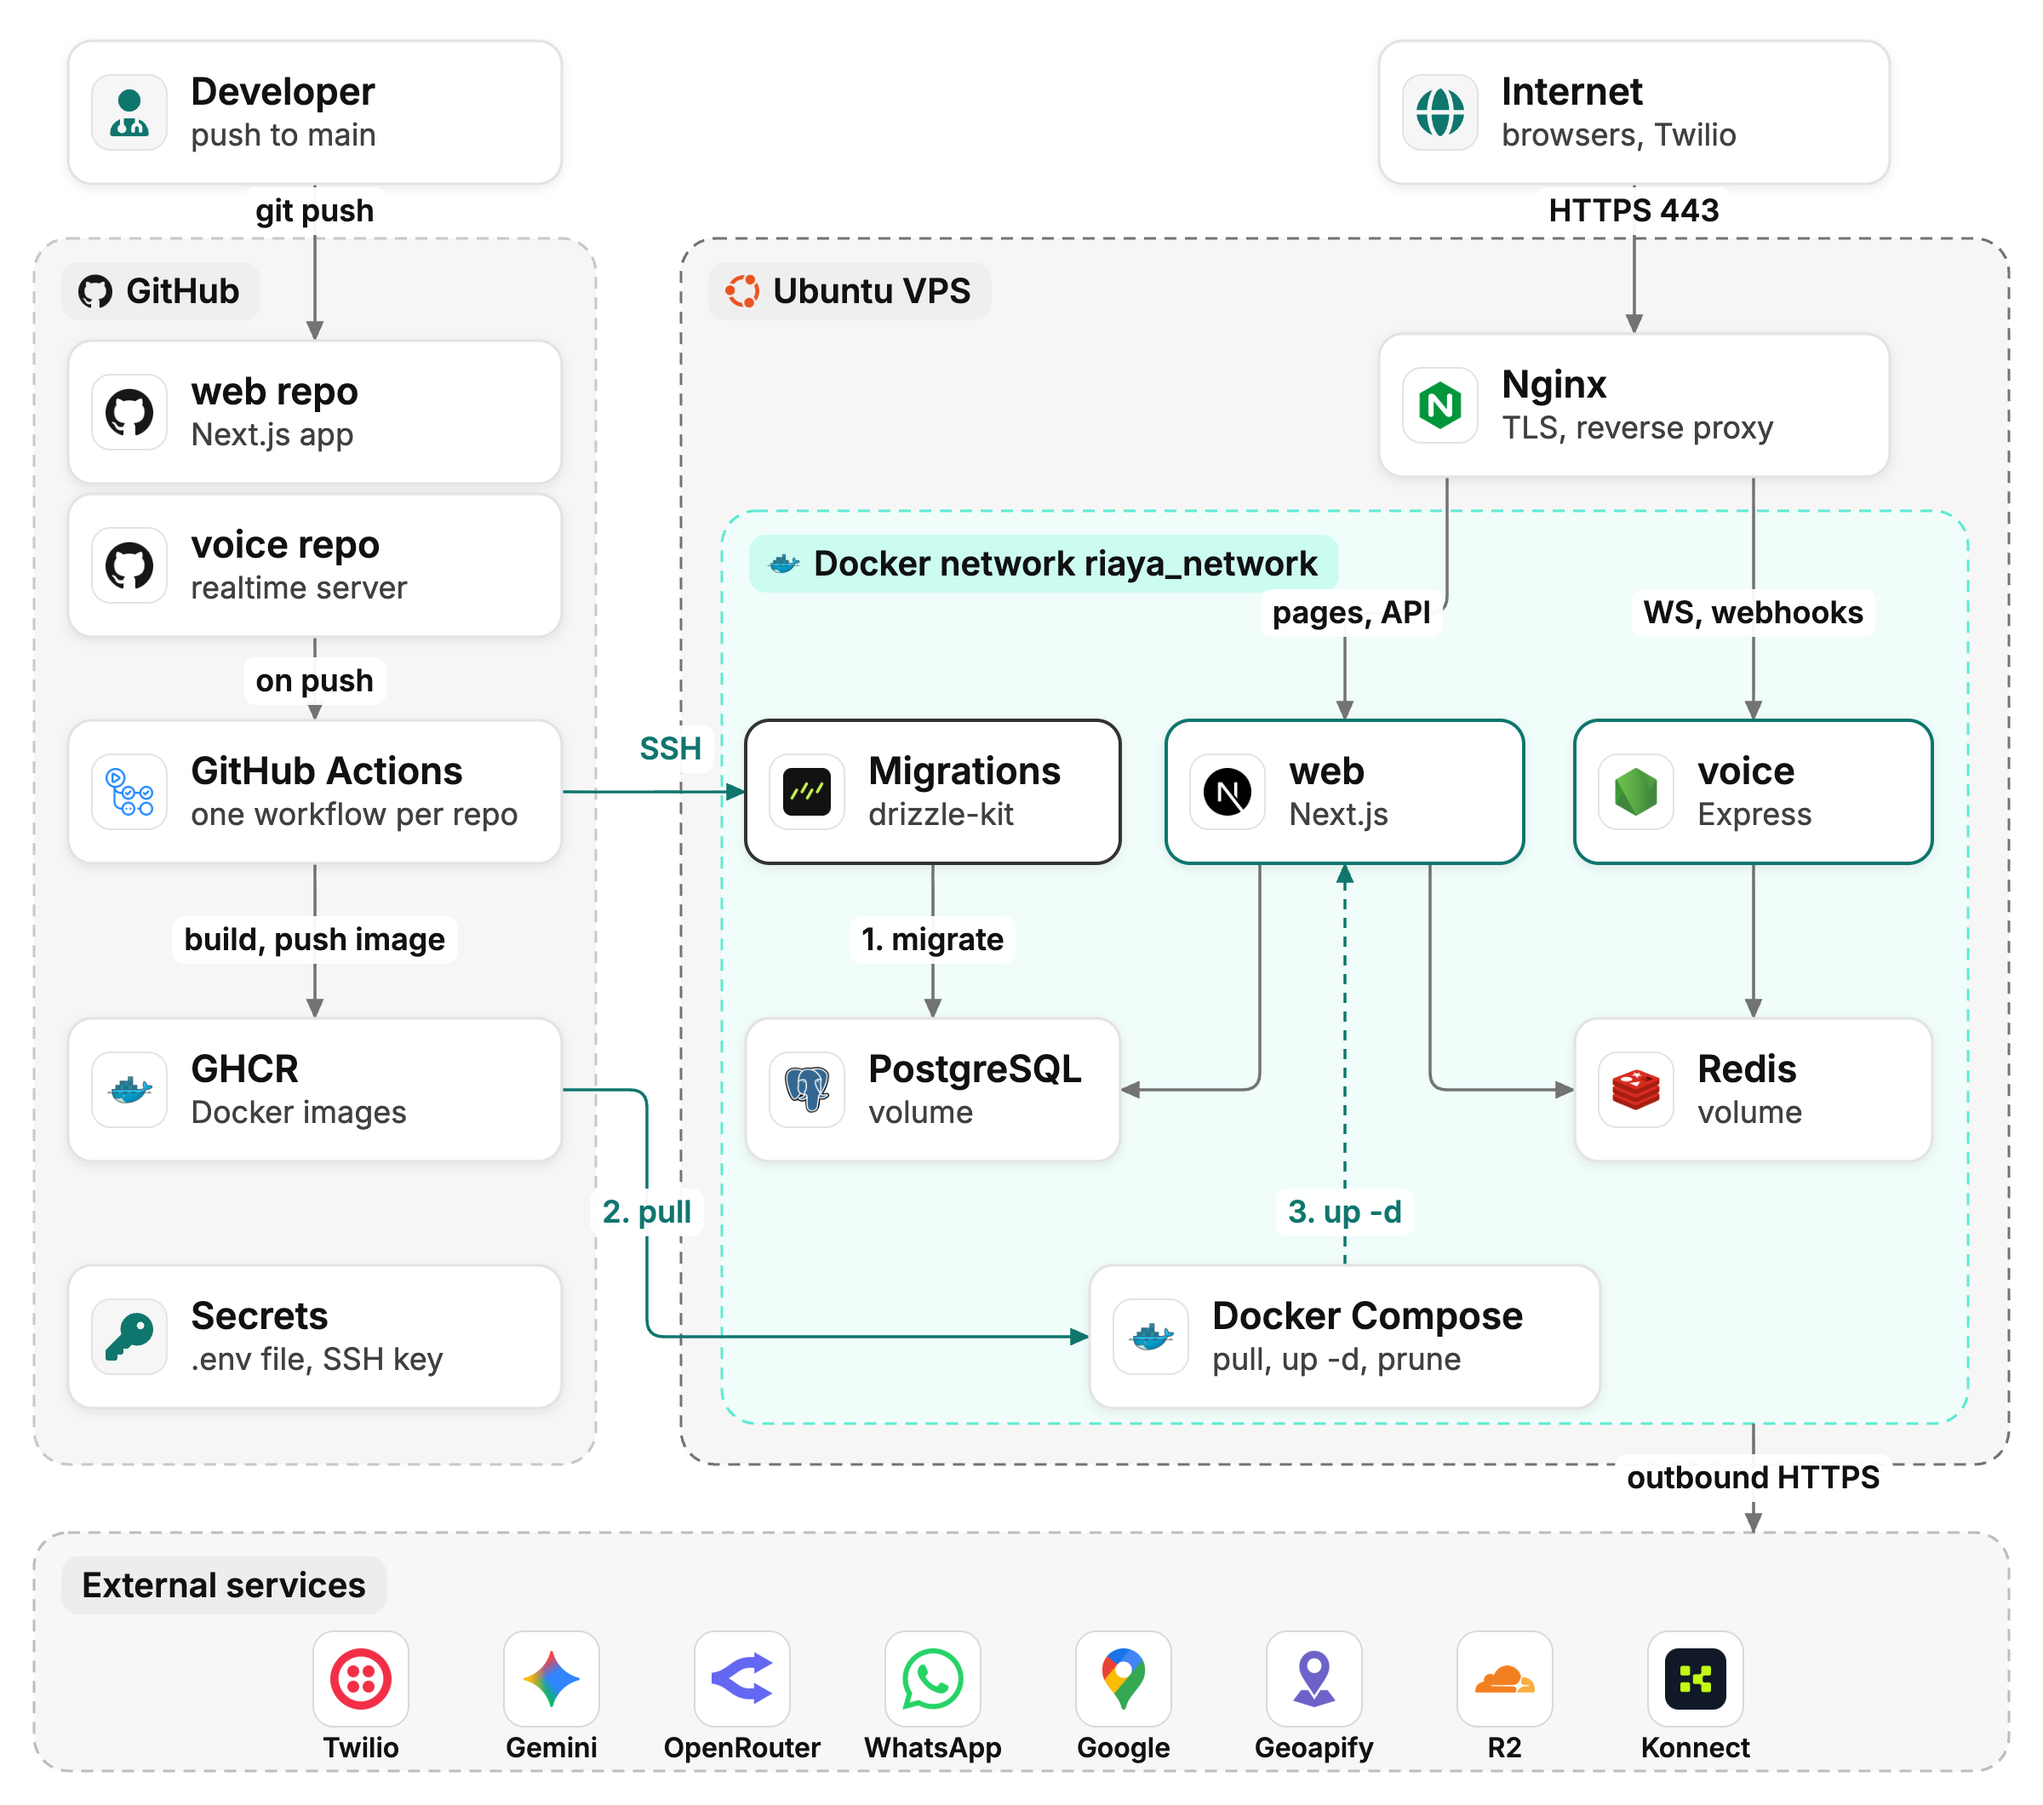
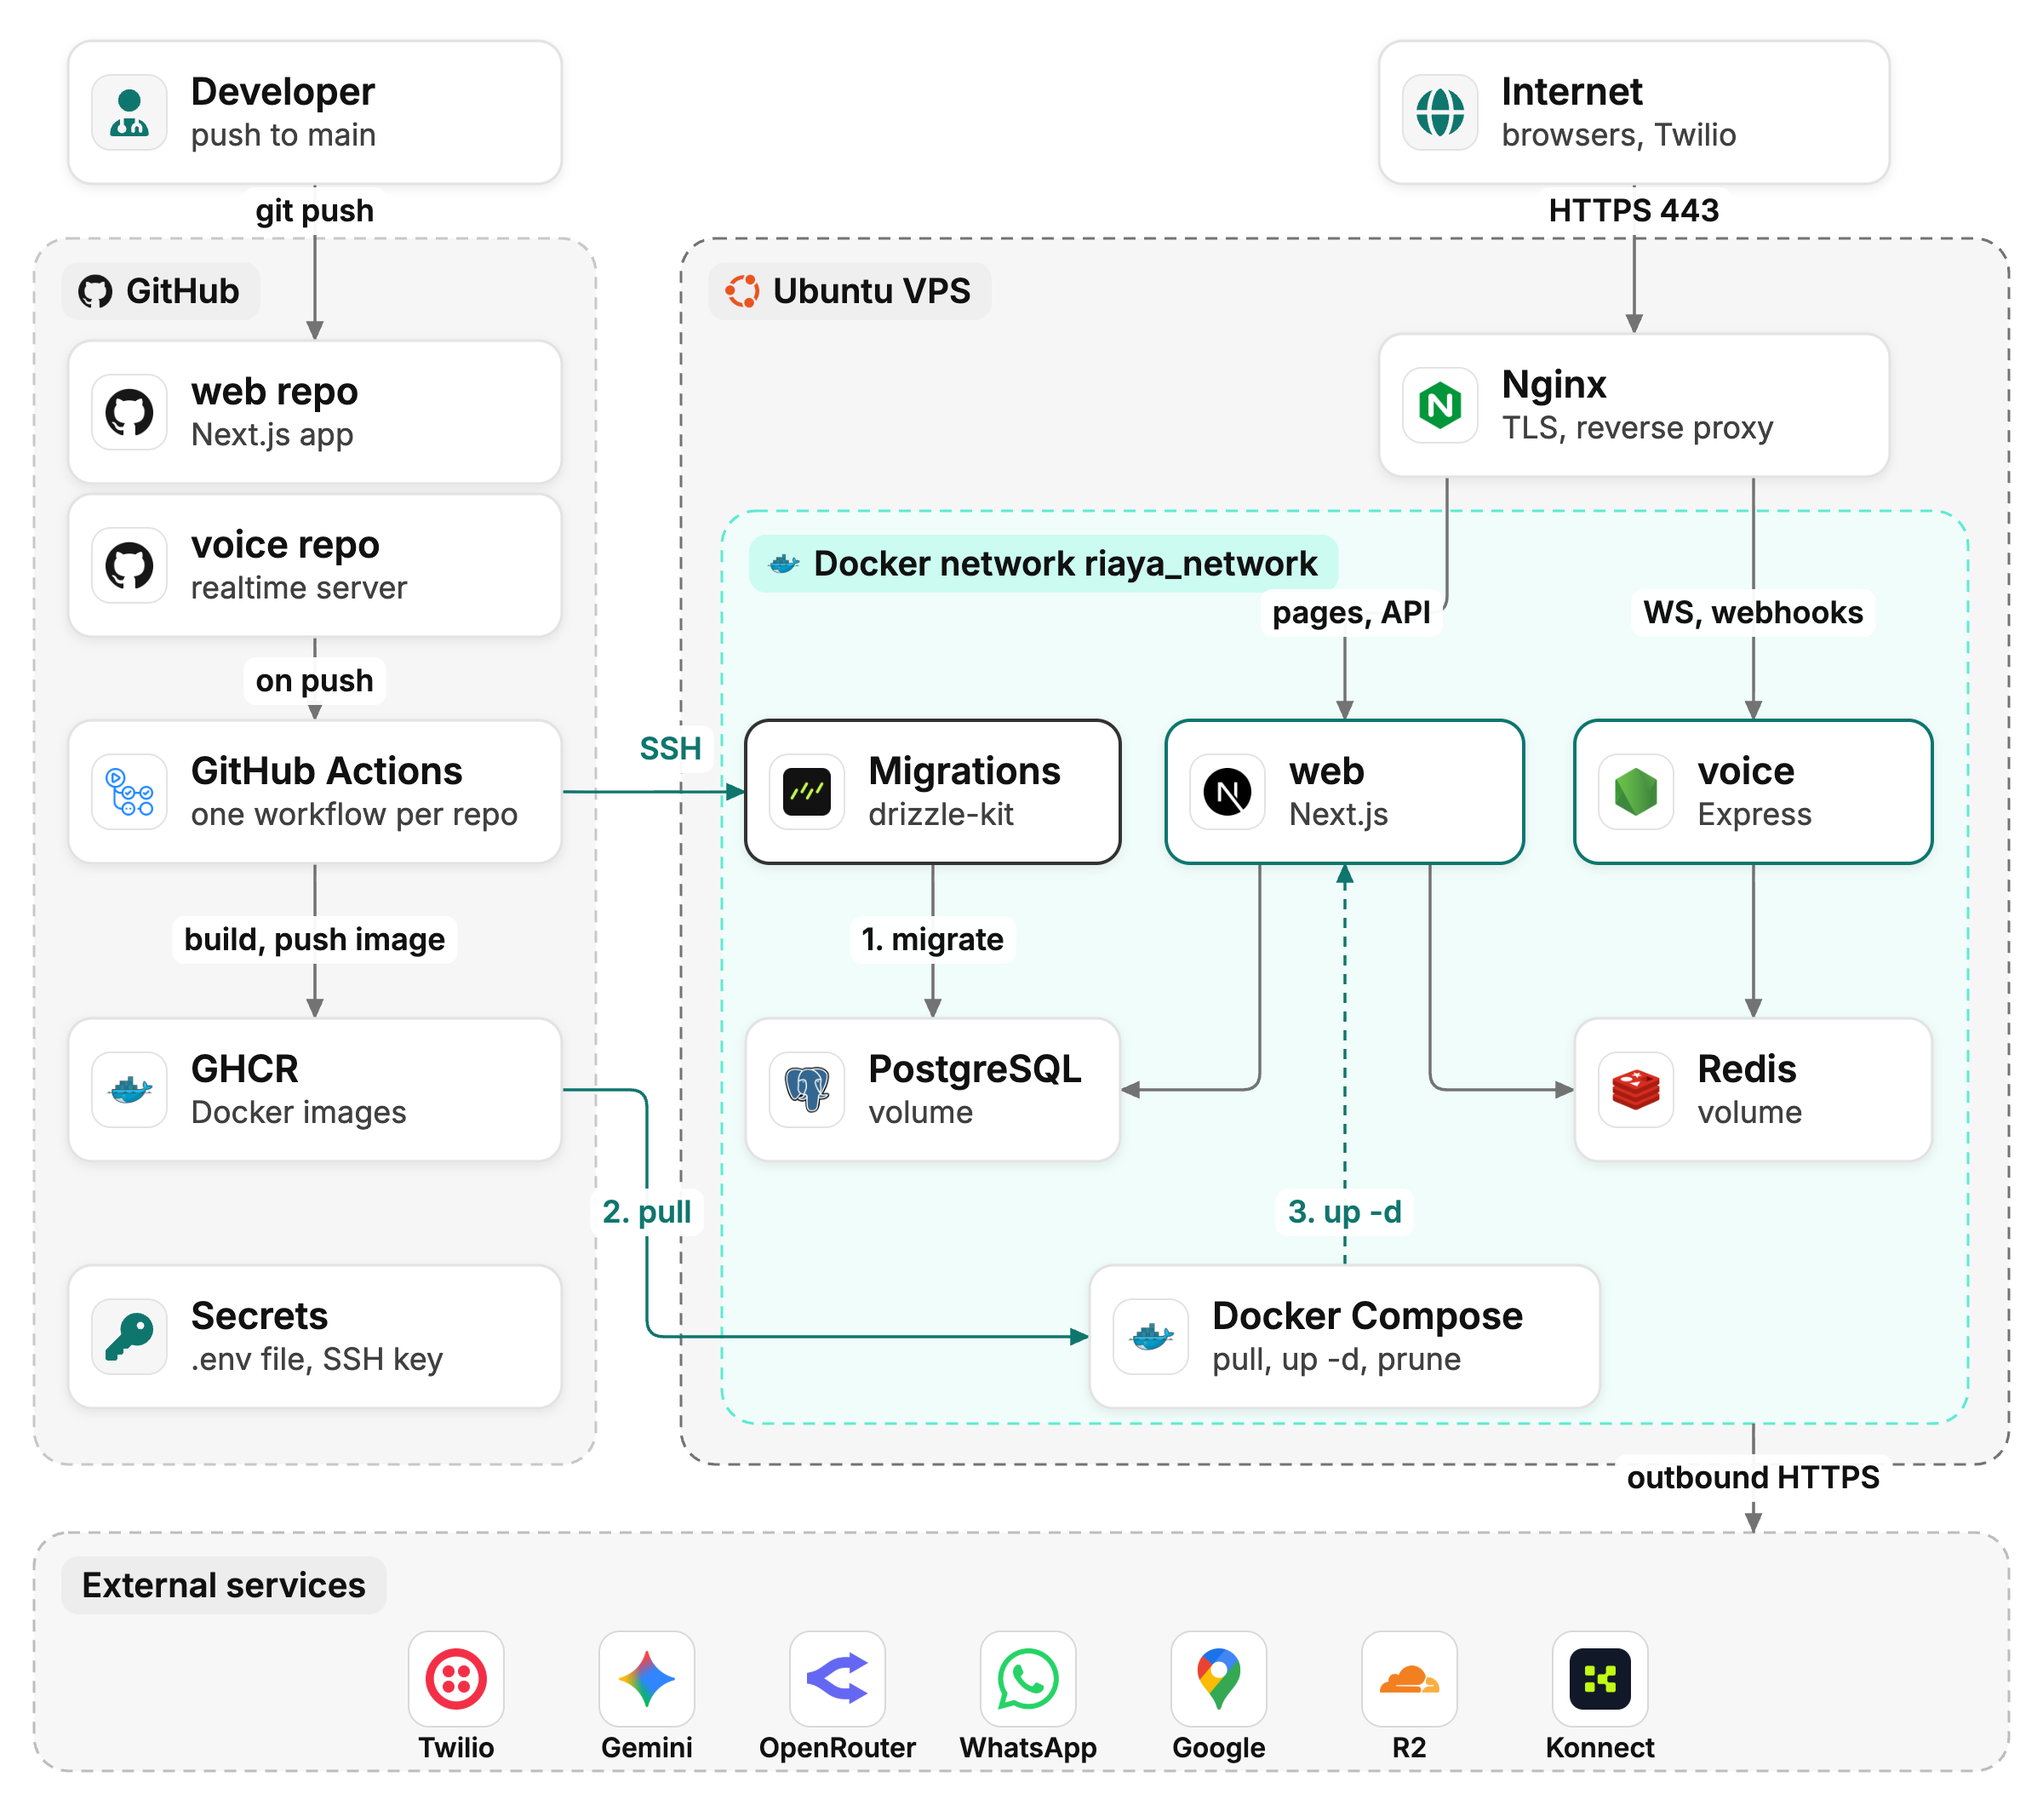
Re-render the architecture, deployment, best-fit and booking BPMN diagrams
Google Routes replaces Geoapify for road distance, the best-fit pipeline
shows the area question and reachable slots, and the booking BPMN shows
urgent requests in waves of 3. gen.cjs now URL-encodes the font path.

Changed region(s): [[0.1562, 0.9028, 0.8438, 0.9962]]

diff --git a/images/diagrams/src/bestfit_pipeline.js b/images/diagrams/src/bestfit_pipeline.js
@@ -40,9 +40,9 @@ function draw(K) {
   const steps = [
     ['loc', 'Locate the patient', ['Google Places, restricted to Tunisia', 'cabinets keep exact map coordinates'], LG + 'google-places.png'],
     ['cand', 'Candidate doctors', ['verified, chosen speciality, cabinet mapped', 'straight-line (Haversine) distance up to 50 km'], I + 'user-check.svg'],
-    ['slot', 'Nearest free slot', ['30-minute slot around the preferred time', 'within one week, before or after', 'plus up to 3 extra later slots'], I + 'calendar-check.svg'],
+    ['slot', 'Nearest free slot', ['30-minute slot around the preferred time', 'starting once the patient can get there', 'within one week, before or after', 'plus up to 3 extra later slots'], I + 'calendar-check.svg'],
     ['score', 'Score and sort', ['score = km + minutes away / 10', '10 minutes of waiting counts as 1 km'], I + 'list-check.svg'],
-    ['road', 'Road-distance polish', ['top 8 re-ranked by driving km', 'Geoapify Route Matrix, one call, 3 s timeout'], LG + 'geoapify.png'],
+    ['road', 'Road-distance polish', ['top 8 re-ranked by driving km,', 'slots redone with the real drive time', 'Google Routes API, one call, 3 s timeout'], LG + 'google-places.png'],
     ['say', 'AI offers 2 to 3 doctors', ['name, cabinet address, distance in km, time', 'never a drive time'], I + 'comments.svg'],
   ];
   steps.forEach(([id, t, l, ic], i) => {
@@ -56,7 +56,7 @@ function draw(K) {
 
   // fallbacks
   const mid = (id) => K.boxes[id].y + K.boxes[id].h / 2;
-  fall('f1', mid('loc'), 'Place not found', ['use one of 24 city centres', 'with stored GPS points']);
+  fall('f1', mid('loc'), 'Only a city, or not found', ['ask once for the area,', 'else one of 24 city centres']);
   fall('f2', mid('cand'), 'Nobody within 50 km has a slot', ['return the 3 nearest beyond,', 'flagged far away, said honestly']);
   fall('f5', mid('road'), 'Service slow or failing', ['keep the straight-line order']);
   const nh = 210, nb = (K.boxes.slot.y + K.boxes.score.y + K.boxes.score.h) / 2 - nh / 2;

diff --git a/images/diagrams/src/deployment.js b/images/diagrams/src/deployment.js
@@ -50,13 +50,13 @@ function draw(K) {
   E({pts: [K.P('ghcr', 'r'), [380, 640], [380, 785], K.P('compose', 'l')], label: '2. pull', at: [380, 712], kind: 'teal'});
 
   // external services
-  const ex = ['twilio', 'gemini', 'openrouter', 'whatsapp', 'google-places', 'geoapify', 'cloudflare-r2', 'konnect'];
-  const exNames = ['Twilio', 'Gemini', 'OpenRouter', 'WhatsApp', 'Google', 'Geoapify', 'R2', 'Konnect'];
+  const ex = ['twilio', 'gemini', 'openrouter', 'whatsapp', 'google-places', 'cloudflare-r2', 'konnect'];
+  const exNames = ['Twilio', 'Gemini', 'OpenRouter', 'WhatsApp', 'Google', 'R2', 'Konnect'];
   K.zone({x: 20, y: 900, w: 1160, h: 140, title: 'External services', kind: 'ext'});
   E({pts: [[c3, 836], [c3, 900]], label: 'outbound HTTPS', at: [c3, 868]});
   E({pts: [K.P('compose', 't'), K.P('web', 'b')], dash: true, kind: 'teal', label: '3. up -d', at: [c2, 712]});
   ex.forEach((s, i) => {
-    const x = 188 + i * 112;
+    const x = 604 - ((ex.length - 1) * 112 + 56) / 2 + 4 + i * 112;
     K.el(K.gNodes, 'rect', {x: x - 4, y: 958, width: 56, height: 56, rx: 12, fill: '#FFFFFF', stroke: '#D9D9D9'});
     K.el(K.gNodes, 'image', {href: LG + s + '.png', x: x + 6, y: 968, width: 36, height: 36});
     K.text(x + 24, 1032, exNames[i], {size: 16, color: '#111111', anchor: 'middle', weight: 500});

diff --git a/images/diagrams/src/architecture_global.js b/images/diagrams/src/architecture_global.js
@@ -35,7 +35,7 @@ function draw(K) {
   K.card({id: 'wa', x: 36, cy: cy.store, w: lw, title: 'WhatsApp', sub: 'Baileys', icon: LG + 'whatsapp.png', chip: 'white'});
   const ry = [330, 444, 558, 672];
   K.card({id: 'places', x: 966, cy: ry[0], w: rw, title: 'Google', sub: 'Places', icon: LG + 'google-places.png', chip: 'white'});
-  K.card({id: 'geo', x: 966, cy: ry[1], w: rw, title: 'Geoapify', sub: 'road km', icon: LG + 'geoapify.png', chip: 'white'});
+  K.card({id: 'geo', x: 966, cy: ry[1], w: rw, title: 'Google', sub: 'Routes (km)', icon: LG + 'google-places.png', chip: 'white'});
   K.card({id: 'r2', x: 966, cy: ry[2], w: rw, title: 'R2', sub: 'file storage', icon: LG + 'cloudflare-r2.png', chip: 'white'});
   K.card({id: 'konnect', x: 966, cy: ry[3], w: rw, title: 'Konnect', sub: 'payments', icon: LG + 'konnect.png', chip: 'white'});
   K.card({id: 'openrouter', cx: (L + R) / 2, cy: cy.gw + 8, title: 'OpenRouter', sub: 'transcription, doctor AI', icon: LG + 'openrouter.png', chip: 'white'});
